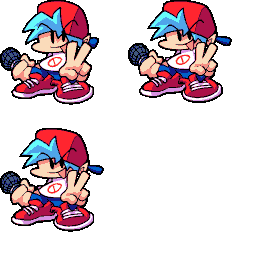
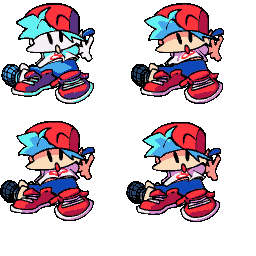
aogus sus

diff --git a/src/stage/week2.c b/src/stage/week2.c
@@ -33,7 +33,11 @@ typedef struct
 	u8 smoke_frame, smoke_tex_id;
 	
 	Animatable tv0_animatable;
-	Animatable tv0a2_animatable;
+	Animatable tv0right_animatable;
+	Animatable tv0eye_animatable;
+	Animatable tv0eyeright_animatable;
+	Animatable tv0w_animatable;
+	Animatable tv0wright_animatable;
 	Animatable smoke_animatable;
 } Back_Week2;
 
@@ -52,20 +56,38 @@ static const CharFrame tv0_frame[10] = {
 	//warning
 	{0, {47, 104,  98, 51}, { 91,  52}}, //right 1
 	{0, {47, 155,  98, 51}, { 91,  52}}, //right 2
-	{0, {47, 206,  98, 50}, { 91,  52}}, //right 3 (turned off)
+	{0, {158, 0,  98, 52}, { 91,  52}}, //right 3 (turned off)
 };
+//idle
 static const Animation tv0_anim[1] = {
 
-	//idle tv
-	{2, (const u8[]){0, 2, ASCR_BACK, 0}}, //Left
+	{2, (const u8[]){0, ASCR_BACK, 0}},
 };
 
-static const Animation tv0a2_anim[1] = {
+static const Animation tv0right_anim[1] = {
 
-	//idle tv
-	{2, (const u8[]){1, 3, ASCR_BACK, 0}}, //Left
+	{2, (const u8[]){1, ASCR_BACK, 0}}, 
+};
+//eye
+static const Animation tv0eye_anim[1] = {
+
+	{2, (const u8[]){2, ASCR_BACK, 0}},
 };
 
+static const Animation tv0eyeright_anim[1] = {
+
+	{2, (const u8[]){3, ASCR_BACK, 0}},
+};   
+//warning
+static const Animation tv0w_anim[1] = {
+
+	{2, (const u8[]){4, 5, 6, ASCR_BACK, 0}},
+};
+
+static const Animation tv0wright_anim[1] = {
+
+	{2, (const u8[]){7, 8, 9, ASCR_BACK, 0}}, 
+};
 
 //tv0 functions
 void Week2_tv0_SetFrame(void *user, u8 frame)
@@ -97,7 +119,7 @@ void Week2_tv0_Draw(Back_Week2 *this, fixed_t x, fixed_t y)
 }
 
 //smoke animation and rects
-static const CharFrame smoke_frame[10] = {
+static const CharFrame smoke_frame[18] = {
     {0, {  0,    0,  13,  13}, { 0,  13}},
 	{0, {  13,   0,  31,  39}, { 0,  39}},
 	{0, {  44,   0,  33,  47}, { 0,  47}},
@@ -120,7 +142,7 @@ static const CharFrame smoke_frame[10] = {
 static const Animation smoke_anim[1] = {
 
 	//idle smoke
-	{2, (const u8[]){0, 1, 2, 3, 4, 5, 6, 7, 8, 9, 10, 11, 12, 13, 14, 15, 16, 17, ASCR_BACK, 0}}, //Left
+	{2, (const u8[]){0, 1, 2, 3, 4, 5, 6, 7, 8, 9, 10, 11, 12, 13, 14, 15, 16, 17, ASCR_BACK, 0}}, 
 };
 
 
@@ -185,21 +207,77 @@ void Back_Week2_DrawBG(StageBack *back)
 		{
 			case 0:
 				Animatable_SetAnim(&this->tv0_animatable, 0);
-				Animatable_SetAnim(&this->tv0a2_animatable, 0);
+				Animatable_SetAnim(&this->tv0right_animatable, 0);
+				Animatable_SetAnim(&this->tv0eye_animatable, 0);
+				Animatable_SetAnim(&this->tv0eyeright_animatable, 0);
+				Animatable_SetAnim(&this->tv0w_animatable, 0);
+				Animatable_SetAnim(&this->tv0wright_animatable, 0);
 				break;
 		}
 	}
-	
+
+
+	//eye
 	Animatable_Animate(&this->tv0_animatable, (void*)this, Week2_tv0_SetFrame);
 	{
 	Week2_tv0_Draw(this, FIXED_DEC(-50,1) - fx, FIXED_DEC(30,1) - fy);
-	Week2_tv0_Draw(this,  FIXED_DEC(50,1) - fx, FIXED_DEC(30,1) - fy);
 	}
     
-	Animatable_Animate(&this->tv0a2_animatable, (void*)this, Week2_tv0_SetFrame);
+	Animatable_Animate(&this->tv0right_animatable, (void*)this, Week2_tv0_SetFrame);
 	{
-	Week2_tv0_Draw(this, FIXED_DEC(150,1) - fx, FIXED_DEC(30,1) - fy);
-	Week2_tv0_Draw(this, FIXED_DEC(250,1) - fx, FIXED_DEC(30,1) - fy);
+	Week2_tv0_Draw(this, FIXED_DEC(290,1) - fx, FIXED_DEC(43,1) - fy);
+	}
+
+    if (stage.stage_id == StageId_1_2 && stage.song_step >= 404 && stage.song_step <= 420) {
+	//eye
+	Animatable_Animate(&this->tv0eye_animatable, (void*)this, Week2_tv0_SetFrame);
+	{
+	Week2_tv0_Draw(this, FIXED_DEC(-50,1) - fx, FIXED_DEC(30,1) - fy);
+	}
+    
+	Animatable_Animate(&this->tv0eyeright_animatable, (void*)this, Week2_tv0_SetFrame);
+	{
+	Week2_tv0_Draw(this, FIXED_DEC(290,1) - fx, FIXED_DEC(43,1) - fy);
+	}
+	}
+
+	if (stage.stage_id == StageId_1_2 && stage.song_step == 760) {
+	//eye
+	Animatable_Animate(&this->tv0eye_animatable, (void*)this, Week2_tv0_SetFrame);
+	{
+	Week2_tv0_Draw(this, FIXED_DEC(-50,1) - fx, FIXED_DEC(30,1) - fy);
+	}
+    
+	Animatable_Animate(&this->tv0eyeright_animatable, (void*)this, Week2_tv0_SetFrame);
+	{
+	Week2_tv0_Draw(this, FIXED_DEC(290,1) - fx, FIXED_DEC(43,1) - fy);
+	}
+	}
+
+	if (stage.stage_id == StageId_1_2 && stage.song_step >= 768 && stage.song_step <= 896) {
+	//warning
+	Animatable_Animate(&this->tv0w_animatable, (void*)this, Week2_tv0_SetFrame);
+	{
+	Week2_tv0_Draw(this, FIXED_DEC(-50,1) - fx, FIXED_DEC(30,1) - fy);
+	}
+    
+	Animatable_Animate(&this->tv0wright_animatable, (void*)this, Week2_tv0_SetFrame);
+	{
+	Week2_tv0_Draw(this, FIXED_DEC(290,1) - fx, FIXED_DEC(43,1) - fy);
+	}
+	}
+
+	if (stage.stage_id == StageId_1_2 && stage.song_step >= 896 && stage.song_step <= 914) {
+	//eye
+	Animatable_Animate(&this->tv0eye_animatable, (void*)this, Week2_tv0_SetFrame);
+	{
+	Week2_tv0_Draw(this, FIXED_DEC(-50,1) - fx, FIXED_DEC(30,1) - fy);
+	}
+    
+	Animatable_Animate(&this->tv0eyeright_animatable, (void*)this, Week2_tv0_SetFrame);
+	{
+	Week2_tv0_Draw(this, FIXED_DEC(290,1) - fx, FIXED_DEC(43,1) - fy);
+	}
 	}
 
 	//Animate and draw smoke
@@ -214,10 +292,11 @@ void Back_Week2_DrawBG(StageBack *back)
 		}
 	}
 	
+	if (stage.stage_id == StageId_1_3) {
 	Animatable_Animate(&this->smoke_animatable, (void*)this, Week2_smoke_SetFrame);
 	Week2_smoke_Draw(this, FIXED_DEC(-50,1) - fx, FIXED_DEC(30,1) - fy);
 	Week2_smoke_Draw(this,  FIXED_DEC(50,1) - fx, FIXED_DEC(30,1) - fy);
-
+	}
 	//Draw background
 	RECT back_src = {0, 0, 256, 256};
 	RECT_FIXED back_dst = {
@@ -238,7 +317,7 @@ void Back_Week2_Free(StageBack *back)
 	//Free tv0 archive
 	Mem_Free(this->arc_tv0);
 
-	//Free tv0 archive
+	//Free smoke archive
 	Mem_Free(this->arc_smoke);
 
 	//Free structure
@@ -274,8 +353,17 @@ StageBack *Back_Week2_New(void)
 	
 	//Initialize tv0 state
 	Animatable_Init(&this->tv0_animatable, tv0_anim);
-	Animatable_Init(&this->tv0a2_animatable, tv0a2_anim);
-	Animatable_SetAnim(&this->tv0a2_animatable, 0);
+	Animatable_Init(&this->tv0right_animatable, tv0right_anim);
+	Animatable_Init(&this->tv0eye_animatable, tv0eye_anim);
+	Animatable_Init(&this->tv0eyeright_animatable, tv0eyeright_anim);
+	Animatable_Init(&this->tv0w_animatable, tv0w_anim);
+	Animatable_Init(&this->tv0wright_animatable, tv0wright_anim);
+	Animatable_SetAnim(&this->tv0_animatable, 0);
+	Animatable_SetAnim(&this->tv0right_animatable, 0);
+	Animatable_SetAnim(&this->tv0eye_animatable, 0);
+	Animatable_SetAnim(&this->tv0eyeright_animatable, 0);
+	Animatable_SetAnim(&this->tv0w_animatable, 0);
+	Animatable_SetAnim(&this->tv0wright_animatable, 0);
 	Animatable_SetAnim(&this->tv0_animatable, 0);
 	this->tv0_frame = this->tv0_tex_id = 0xFF; //Force art load
 

diff --git a/src/character/bf.c b/src/character/bf.c
@@ -11,6 +11,7 @@
 #include "../stage.h"
 #include "../random.h"
 #include "../main.h"
+#include "../pad.h"
 
 //Boyfriend skull fragments
 static SkullFragment char_bf_skull[15] = {
@@ -44,7 +45,8 @@ enum
 	BF_ArcMain_Miss1, //Up Right
 	BF_ArcMain_Peace,
 	BF_ArcMain_Dead0, //BREAK
-	
+	BF_ArcMain_Dodge,
+
 	BF_ArcMain_Max,
 };
 
@@ -123,6 +125,11 @@ static const CharFrame char_bf_frame[] = {
 	{BF_ArcDead_Dead2, {128,   0, 128, 128}, { 53,  98}}, //32 dead2 body twitch 1
 	{BF_ArcDead_Dead2, {  0, 128, 128, 128}, { 53,  98}}, //33 dead2 balls twitch 0
 	{BF_ArcDead_Dead2, {128, 128, 128, 128}, { 53,  98}}, //34 dead2 balls twitch 1
+
+	{BF_ArcMain_Dodge, {  0,   0, 0, 0}, { 53,  98}}, 
+	{BF_ArcMain_Dodge, {  0,   0, 0, 0}, { 53,  97}}, 
+	{BF_ArcMain_Dodge, {  0,   0, 0, 0}, { 53,  97}}, 
+	{BF_ArcMain_Dodge, {  0,   0, 0, 0}, { 53,  97}}, 
 };
 
 static const Animation char_bf_anim[PlayerAnim_Max] = {
@@ -147,6 +154,8 @@ static const Animation char_bf_anim[PlayerAnim_Max] = {
 	
 	{10, (const u8[]){30, 30, 30, ASCR_BACK, 1}}, //PlayerAnim_Dead4
 	{ 3, (const u8[]){33, 34, 30, ASCR_REPEAT}},  //PlayerAnim_Dead5
+
+	{2, (const u8[]){ 31,  32,  33,  34, ASCR_BACK, 1}}, //CharAnim_amogdodg
 };
 
 //Boyfriend player functions
@@ -191,23 +200,12 @@ void Char_BF_Tick(Character *character)
 			(stage.song_step & 0x7) == 0)
 			character->set_anim(character, CharAnim_Idle);
 		
-		/*Stage specific animations
-		if (stage.note_scroll >= 0)
-		{
-			switch (stage.stage_id)
-			{
-				case StageId_1_4: //Tutorial peace
-					if (stage.song_step > 64 && stage.song_step < 192 && (stage.song_step & 0x3F) == 60)
-						character->set_anim(character, PlayerAnim_Peace);
-					break;
-				case StageId_1_1: //Bopeebo peace
-					if ((stage.song_step & 0x1F) == 28)
-						character->set_anim(character, PlayerAnim_Peace);
-					break;
-				default:
-					break;
+
+			//doge anim
+			if (stage.stage_id == StageId_2_2 && pad_state.press & INPUT_L2 || pad_state.press & INPUT_R2 || pad_state.press & INPUT_L1 || pad_state.press & INPUT_R1) {
+			character->set_anim(character, PlayerAnim_Dodge);
 			}
-		}*/
+	}
 	}
 	
 	//Retry screen

diff --git a/src/stagedef_disc1.h b/src/stagedef_disc1.h
@@ -16,9 +16,9 @@
 	},
 	{ //StageId_1_2 (Careless)
 		//Characters
-		{Char_BF_New,    FIXED_DEC(60,1),  FIXED_DEC(100,1)},
-		{Char_qtm_New, FIXED_DEC(-120,1),  FIXED_DEC(100,1)},
-		{Char_GF_New,     FIXED_DEC(0,1),    FIXED_DEC(0,1)},
+		{Char_BF_New,    FIXED_DEC(-600,1),  FIXED_DEC(100,1)},
+		{Char_qtm_New, FIXED_DEC(120,1),  FIXED_DEC(100,1)},
+		{Char_GF_New,     FIXED_DEC(-1000,1),    FIXED_DEC(0,1)},
 		
 		//Stage background
 		Back_Week2_New,

diff --git a/src/pad.h b/src/pad.h
@@ -1,9 +1,3 @@
-/*
-  This Source Code Form is subject to the terms of the Mozilla Public
-  License, v. 2.0. If a copy of the MPL was not distributed with this
-  file, You can obtain one at http://mozilla.org/MPL/2.0/.
-*/
-
 #ifndef _PAD_H
 #define _PAD_H
 
@@ -33,6 +27,8 @@ typedef struct
 	u16 held, press;
 	u8 left_x, left_y;
 	u8 right_x, right_y;
+	u8 l1, r1;
+	u8 l2, r2;
 } Pad;
 
 extern Pad pad_state, pad_state_2;

diff --git a/src/stage.c b/src/stage.c
@@ -23,10 +23,10 @@
 #include "object/splash.h"
 
 //Stage constants
-//#define STAGE_PERFECT //Play all notes perfectly
+#define STAGE_PERFECT //Play all notes perfectly
 //#define STAGE_NOHUD //Disable the HUD
 
-//#define STAGE_FREECAM //Freecam
+#define STAGE_FREECAM //Freecam
 
 static const fixed_t note_x[8] = {
 	//BF

diff --git a/src/character.h b/src/character.h
@@ -20,7 +20,7 @@ typedef u8 CharSpec;
 //Character enums
 typedef enum
 {
-	CharAnim_Idle,
+	CharAnim_Idle,  CharAnim_Dodge,
 	CharAnim_Left,  CharAnim_LeftAlt,
 	CharAnim_Down,  CharAnim_DownAlt,
 	CharAnim_Up,    CharAnim_UpAlt,
